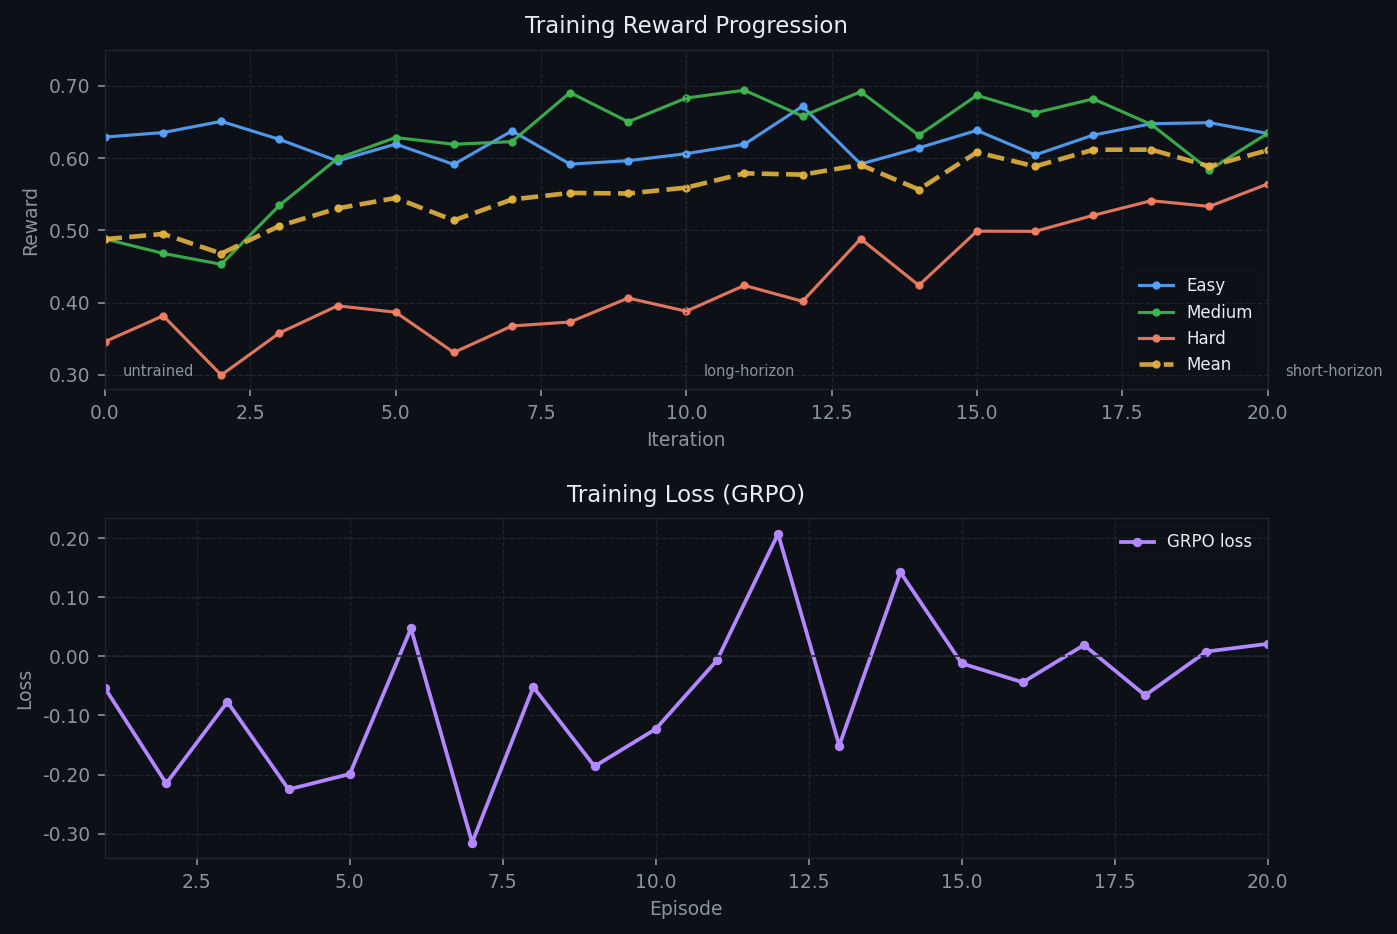
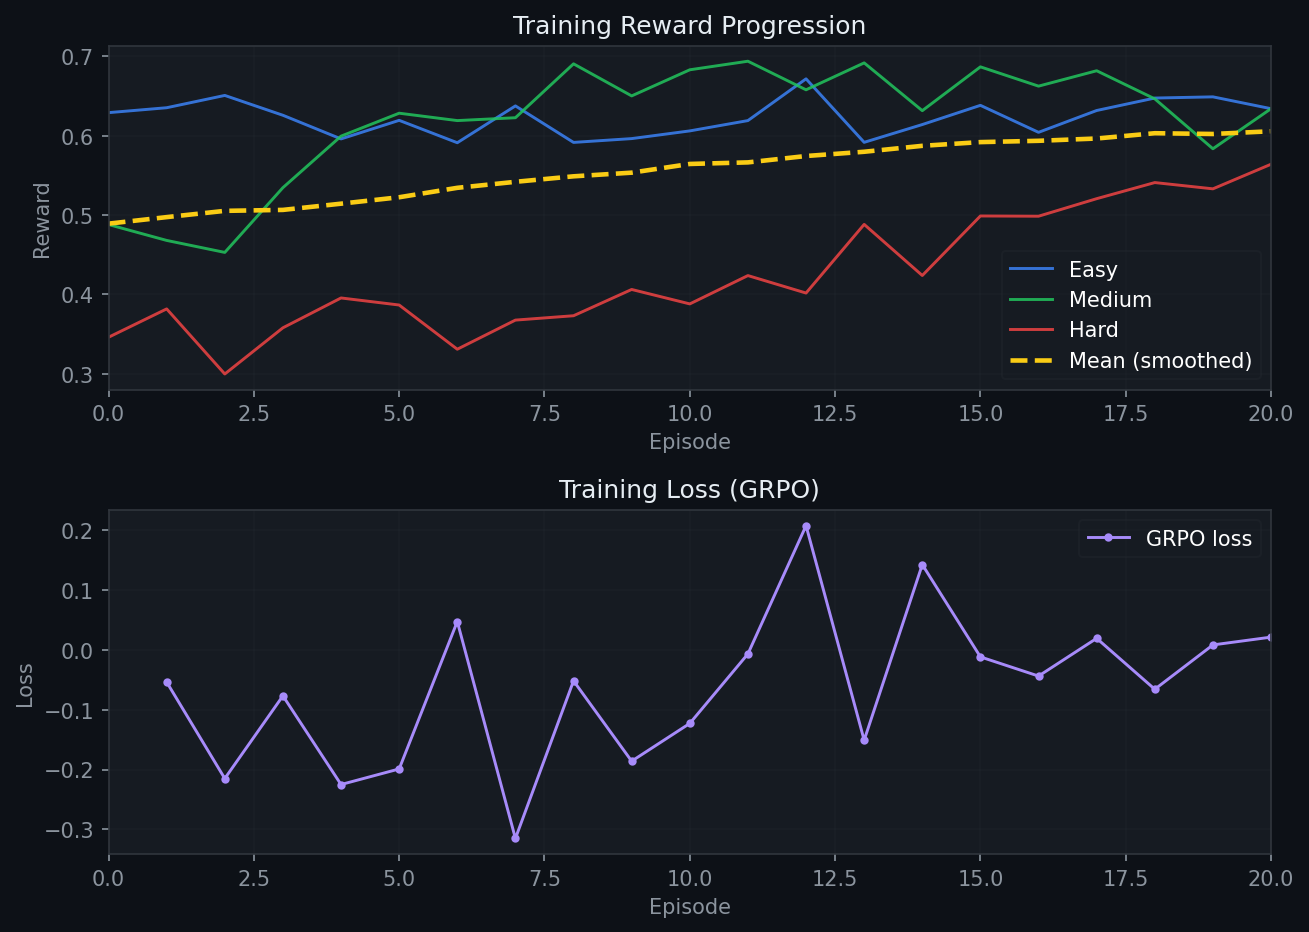
chore: regenerate training_curve.png without stale annotations, add script

diff --git a/scripts/generate_training_curve.py b/scripts/generate_training_curve.py
@@ -1,0 +1,72 @@
+"""Generate training_curve.png from assets/train.jsonl."""
+import json
+import sys
+from pathlib import Path
+
+import matplotlib
+matplotlib.use("Agg")
+import matplotlib.pyplot as plt
+
+ROOT = Path(__file__).parent.parent
+DATA = ROOT / "assets" / "train.jsonl"
+OUT  = ROOT / "assets" / "training_curve.png"
+
+
+def smooth(vals, w=3):
+    out = []
+    for i in range(len(vals)):
+        sl = vals[max(0, i - w):i + w + 1]
+        out.append(sum(sl) / len(sl))
+    return out
+
+
+def main():
+    rows = [json.loads(l) for l in DATA.read_text().splitlines() if l.strip()]
+
+    iters  = [r["iter"]   for r in rows]
+    easy   = [r["easy"]   for r in rows]
+    medium = [r["medium"] for r in rows]
+    hard   = [r["hard"]   for r in rows]
+    mean   = [r["mean"]   for r in rows]
+    loss   = [r.get("loss") for r in rows]
+
+    colors = {"easy": "#3b82f6", "medium": "#22c55e", "hard": "#ef4444", "mean": "#facc15"}
+
+    fig, (ax1, ax2) = plt.subplots(2, 1, figsize=(10, 7), facecolor="#0d1117")
+    fig.subplots_adjust(hspace=0.35)
+
+    for ax in (ax1, ax2):
+        ax.set_facecolor("#161b22")
+        for spine in ax.spines.values():
+            spine.set_edgecolor("#30363d")
+        ax.tick_params(colors="#8b949e")
+        ax.xaxis.label.set_color("#8b949e")
+        ax.yaxis.label.set_color("#8b949e")
+        ax.title.set_color("#e6edf3")
+        ax.grid(True, alpha=0.15, color="#30363d")
+
+    ax1.plot(iters, easy,          color=colors["easy"],   linewidth=1.4, label="Easy",   alpha=0.85)
+    ax1.plot(iters, medium,        color=colors["medium"], linewidth=1.4, label="Medium", alpha=0.85)
+    ax1.plot(iters, hard,          color=colors["hard"],   linewidth=1.4, label="Hard",   alpha=0.85)
+    ax1.plot(iters, smooth(mean),  color=colors["mean"],   linewidth=2.2, linestyle="--", label="Mean (smoothed)")
+    ax1.set_xlabel("Episode")
+    ax1.set_ylabel("Reward")
+    ax1.set_title("Training Reward Progression")
+    ax1.legend(framealpha=0.2, labelcolor="white", facecolor="#161b22", edgecolor="#30363d")
+    ax1.set_xlim(0, max(iters))
+
+    loss_iters = [iters[i] for i, v in enumerate(loss) if v is not None]
+    loss_vals  = [v for v in loss if v is not None]
+    ax2.plot(loss_iters, loss_vals, color="#a78bfa", linewidth=1.4, marker="o", markersize=3, label="GRPO loss")
+    ax2.set_xlabel("Episode")
+    ax2.set_ylabel("Loss")
+    ax2.set_title("Training Loss (GRPO)")
+    ax2.legend(framealpha=0.2, labelcolor="white", facecolor="#161b22", edgecolor="#30363d")
+    ax2.set_xlim(0, max(iters))
+
+    plt.savefig(OUT, dpi=150, bbox_inches="tight", facecolor=fig.get_facecolor())
+    print(f"Saved {OUT}")
+
+
+if __name__ == "__main__":
+    main()
